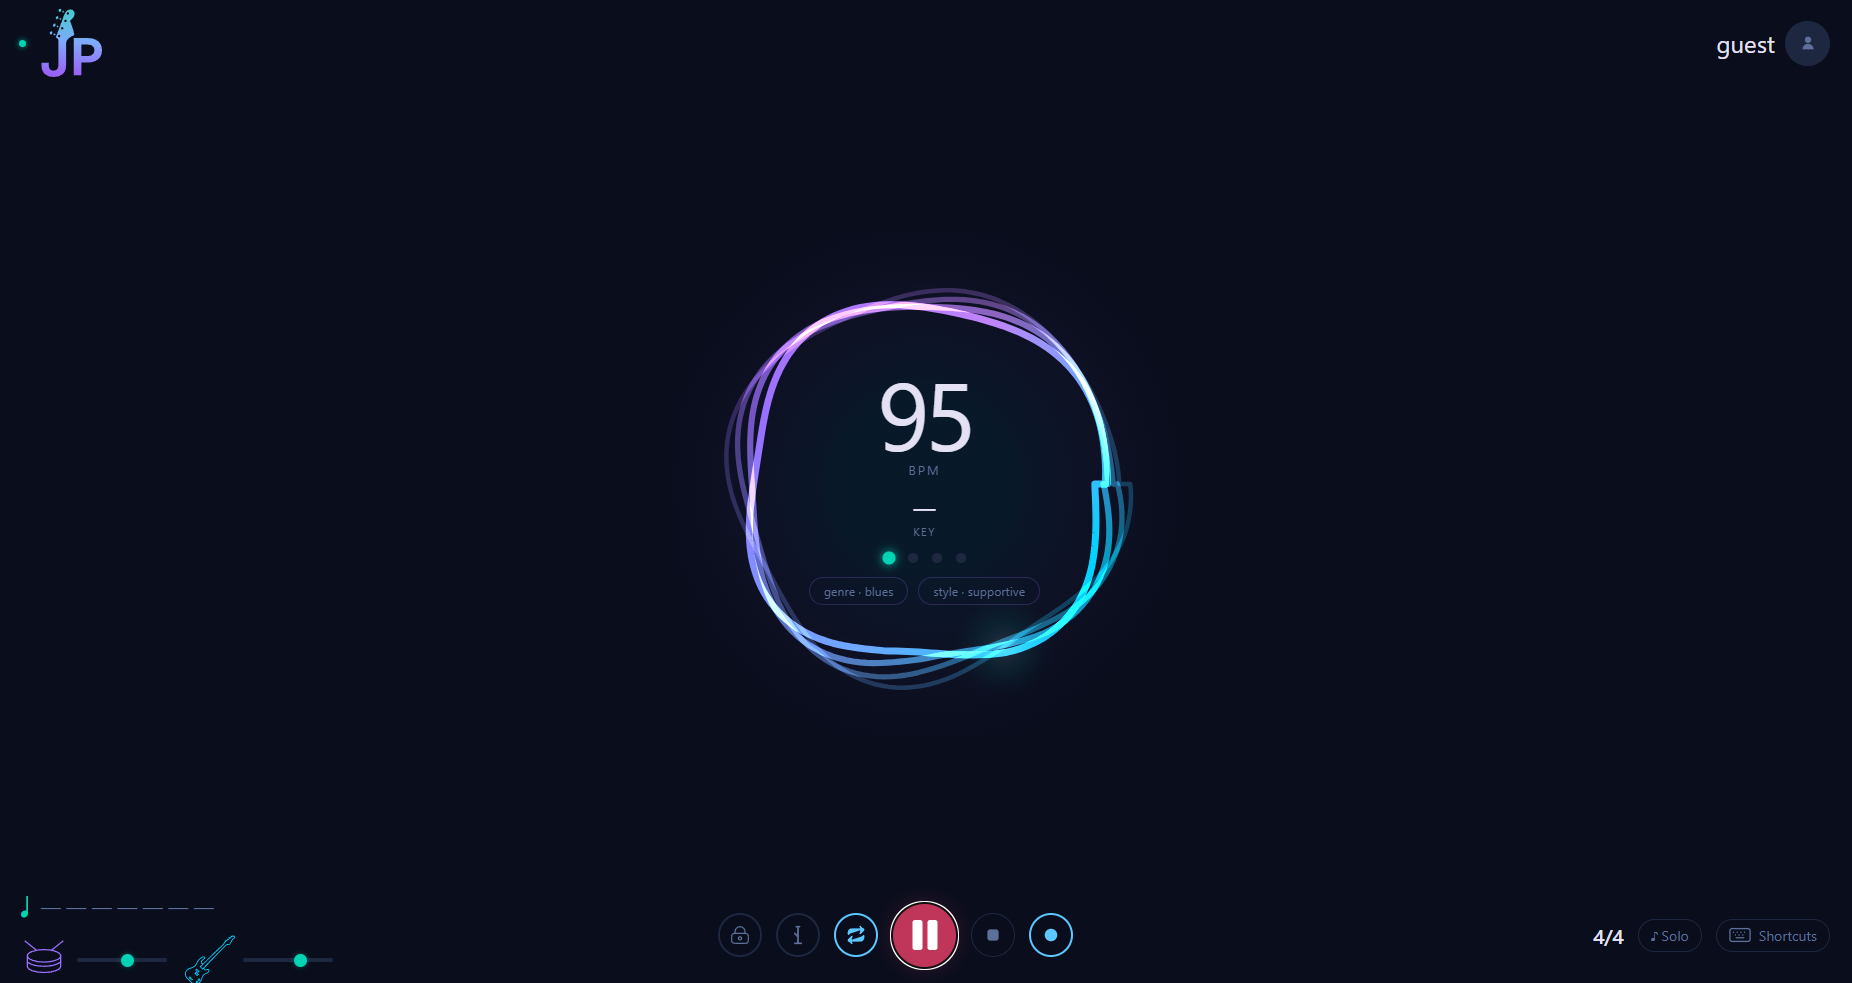
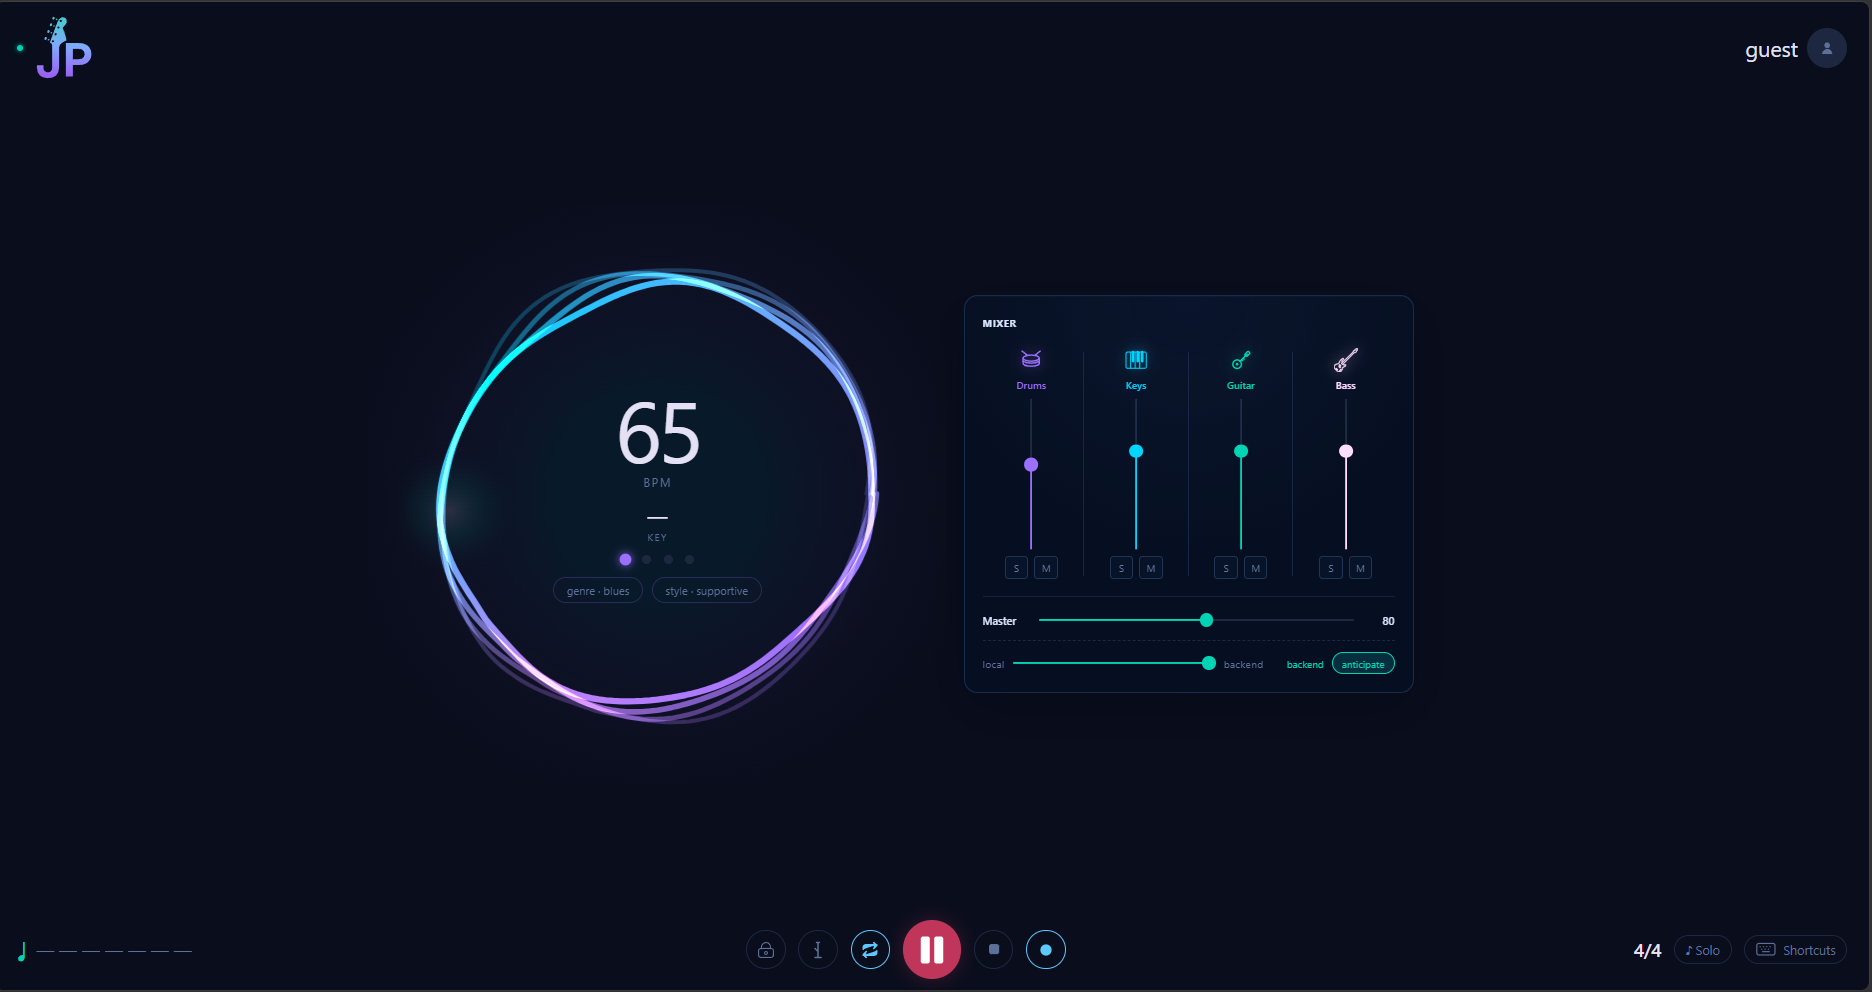
testing local vs backend

diff --git a/jam-pal-react/src/hooks/useJamEngine.js b/jam-pal-react/src/hooks/useJamEngine.js
@@ -3,6 +3,7 @@ import { createAudioEngine } from '../engine/audioEngine.js';
 import { createScheduler } from '../engine/scheduler.js';
 import { createBrain } from '../engine/bandBrain.js';
 import { createTransformerBrain } from '../engine/transformerBrain.js';
+import { createHybridBrain } from '../engine/hybridBrain.js';
 import { createJamDirector } from '../engine/jamDirector.js';
 import { createSessionStats } from '../engine/sessionStats.js';
 import { METERS } from '../engine/config.js';
@@ -44,6 +45,12 @@ export function useJamEngine({ style = 'supportive', genre = 'blues', timeSig = 
   const [isMetronomeOn, setIsMetronomeOn] = useState(false);
   // Lock
   const [isLockOn, setIsLockOn] = useState(false);
+  // Dev-only brain A/B: probability each bar comes from the backend brain
+  const [brainMix, setBrainMixState] = useState(1);
+  const [brainSource, setBrainSource] = useState(null);
+  // Anticipatory harmony: apply the transformer's predicted chord changes
+  // ahead of detection so the band shifts with the player, not after
+  const [anticipationOn, setAnticipationOn] = useState(true);
 
   const engineRef    = useRef(null);
   const schedulerRef = useRef(null);
@@ -70,6 +77,47 @@ export function useJamEngine({ style = 'supportive', genre = 'blues', timeSig = 
     masterVolRef.current = v;
     setMasterVolState(v);
     engineRef.current?.setMasterVolume(v);
+  }, []);
+
+  const brainMixRef = useRef(1);
+  const setBrainMix = useCallback((v) => {
+    brainMixRef.current = v;
+    setBrainMixState(v);
+    brainRef.current?.setMix?.(v);
+  }, []);
+
+  const anticipationRef  = useRef(true);
+  const loopModeRef      = useRef('off');
+  const chordTimeoutsRef = useRef([]);
+  const toggleAnticipation = useCallback(() => {
+    setAnticipationOn(prev => {
+      anticipationRef.current = !prev;
+      return !prev;
+    });
+  }, []);
+
+  const clearChordTimeouts = () => {
+    for (const id of chordTimeoutsRef.current) clearTimeout(id);
+    chordTimeoutsRef.current = [];
+  };
+
+  // Schedule the predicted bar of chord changes. Each entry lands via
+  // engine.setChord at its predicted arrival, so bass/keys/guitar voice the
+  // new chord as the player hits it instead of after detection confirms it.
+  // Detection keeps running and corrects any wrong guesses.
+  const onChordPrediction = useCallback((chords) => {
+    if (!anticipationRef.current) return;
+    if (loopModeRef.current === 'playing') return; // looper owns the chords
+    clearChordTimeouts();
+    for (const { rootPc, atMs } of chords) {
+      if (atMs > 4000) break; // don't act on predictions too far out
+      const id = setTimeout(() => {
+        const engine = engineRef.current;
+        if (!engine || !anticipationRef.current) return;
+        engine.setChord(rootPc, engine.getChordQuality?.() ?? 'maj');
+      }, atMs);
+      chordTimeoutsRef.current.push(id);
+    }
   }, []);
 
   const setSelectedOutputId = useCallback((id) => {
@@ -162,17 +210,23 @@ export function useJamEngine({ style = 'supportive', genre = 'blues', timeSig = 
     engine.setMasterVolume(masterVolRef.current);
     if (outputIdRef.current) engine.setOutputDevice(outputIdRef.current);
     if (!schedulerRef.current) {
-      const brain = import.meta.env.VITE_USE_TRANSFORMER === 'true'
-        ? createTransformerBrain({
-            genre,
-            timeSig: timeSigRef.current,
-            onPrediction: (pred) => {
-              if (pred?.estimated_bpm != null) {
-                engineRef.current?.nudgeBpm?.(pred.estimated_bpm);
-              }
-            },
+      const onPrediction = (pred) => {
+        if (pred?.estimated_bpm != null) {
+          engineRef.current?.nudgeBpm?.(pred.estimated_bpm);
+        }
+      };
+      const useTransformer = import.meta.env.VITE_USE_TRANSFORMER === 'true';
+      // dev builds get the A/B hybrid so the local and backend brains can be
+      // compared live with the brain-mix slider; prod picks one at build time
+      const brain = useTransformer && import.meta.env.DEV
+        ? createHybridBrain({
+            genre, timeSig: timeSigRef.current, onPrediction, onChordPrediction,
+            onBarSource: setBrainSource,
           })
-        : createBrain({ genre, timeSig: timeSigRef.current });
+        : useTransformer
+          ? createTransformerBrain({ genre, timeSig: timeSigRef.current, onPrediction, onChordPrediction })
+          : createBrain({ genre, timeSig: timeSigRef.current });
+      brain.setMix?.(brainMixRef.current);
       brainRef.current = brain;
       const sched = createScheduler(engine, brain, meter, { instrument: instrumentRef.current });
       schedulerRef.current = sched;
@@ -184,7 +238,10 @@ export function useJamEngine({ style = 'supportive', genre = 'blues', timeSig = 
       });
       directorRef.current = director;
       sched.setOnBar(director.onBar);
-      sched.setOnLoopStatus(setLoopStatus);
+      sched.setOnLoopStatus((s) => {
+        loopModeRef.current = s.mode;
+        setLoopStatus(s);
+      });
     }
     // count-in fires immediately so the user gets the pulse
     setCountIn(3);
@@ -192,6 +249,7 @@ export function useJamEngine({ style = 'supportive', genre = 'blues', timeSig = 
   }, [selectedDeviceId, genre]);
 
   const stopMic = useCallback(() => {
+    clearChordTimeouts();
     setIsCountingIn(false);
     setCountIn(null);
     setBandReady(false);
@@ -339,5 +397,7 @@ export function useJamEngine({ style = 'supportive', genre = 'blues', timeSig = 
     setDrumVolume, setBassVolume, setKeysVolume, setGuitarVolume, setMasterVolume,
     refreshDevices, getFrequencyData,
     toggleMic, toggleRecording, toggleLoop,
+    brainMix, setBrainMix, brainSource,
+    anticipationOn, toggleAnticipation,
   };
 }

diff --git a/jam-pal-react/src/components/SessionView.jsx b/jam-pal-react/src/components/SessionView.jsx
@@ -248,6 +248,8 @@ function SessionView({
   drumVolume = 0.85, bassVolume = 1.0, keysVolume = 1.0, guitarVolume = 1.0, masterVolume = 0.8,
   onDrumVolume, onBassVolume, onKeysVolume, onGuitarVolume, onMasterVolume,
   mutedChannels = new Set(), soloedChannels = new Set(), onToggleMute, onToggleSolo,
+  brainMix = 1, onBrainMix, brainSource = null,
+  anticipationOn = true, onToggleAnticipation,
 }) {
   const isActive = listening || bandPlaying;
   const ringRef = useRef(null);
@@ -497,6 +499,37 @@ function SessionView({
           />
           <span className={styles.masterValue}>{Math.round(masterVolume * 100)}</span>
         </div>
+
+        {onBrainMix && (
+          <div className={styles.brainRow}>
+            <span className={styles.brainEnd}>local</span>
+            <input
+              type="range"
+              min="0"
+              max="1"
+              step="0.05"
+              value={brainMix}
+              onChange={(e) => onBrainMix(Number(e.target.value))}
+              aria-label="Brain mix: local vs backend"
+              className={styles.horizontalSlider}
+              style={{ '--fill': `${brainMix * 100}%` }}
+            />
+            <span className={styles.brainEnd}>backend</span>
+            <span className={`${styles.brainSource} ${brainSource === 'backend' ? styles.brainSourceBackend : ''}`}>
+              {brainSource ?? '—'}
+            </span>
+            {onToggleAnticipation && (
+              <button
+                className={`${styles.anticipateBtn} ${anticipationOn ? styles.anticipateBtnOn : ''}`}
+                onClick={onToggleAnticipation}
+                aria-pressed={anticipationOn}
+                title="Anticipatory harmony: shift chords when the model predicts them, not after detection"
+              >
+                anticipate
+              </button>
+            )}
+          </div>
+        )}
         </div>
       </div>
 

diff --git a/jam-pal-react/src/engine/hybridBrain.js b/jam-pal-react/src/engine/hybridBrain.js
@@ -1,0 +1,40 @@
+import { createBrain } from './bandBrain.js';
+import { createTransformerBrain } from './transformerBrain.js';
+
+// Dev A/B brain: runs the local groove brain and the backend transformer brain
+// in lockstep, and picks which one drives the band per bar. `mix` is the
+// probability a bar comes from the backend — 0 = always local, 1 = always
+// backend, in between blends bar by bar so the two are audibly comparable
+// mid-session. Only wired up in dev builds (see useJamEngine.js).
+export function createHybridBrain({ genre, timeSig, onPrediction, onChordPrediction, onBarSource } = {}) {
+  const local  = createBrain({ genre, timeSig });
+  const remote = createTransformerBrain({ genre, timeSig, onPrediction, onChordPrediction });
+
+  let mix = 1;
+  let useRemote = true;
+
+  return {
+    setMix(v) { mix = Math.max(0, Math.min(1, v)); },
+    getMix: () => mix,
+
+    addEvent: (t, pitch) => remote.addEvent?.(t, pitch),
+
+    stepAdvance: (step) => (useRemote ? remote : local).stepAdvance(step),
+
+    reset() {
+      local.reset();
+      remote.reset();
+    },
+
+    step(ctx) {
+      if (ctx.step === 0) {
+        useRemote = Math.random() < mix;
+        onBarSource?.(useRemote ? 'backend' : 'local');
+      }
+      // step both every time so their internal per-bar state stays coherent
+      const localEvents  = local.step(ctx);
+      const remoteEvents = remote.step(ctx);
+      return useRemote ? remoteEvents : localEvents;
+    },
+  };
+}

diff --git a/jam-pal-react/src/engine/transformerBrain.js b/jam-pal-react/src/engine/transformerBrain.js
@@ -28,7 +28,7 @@ function toEngineEvents(rawEvents, ctx) {
 
 export function createTransformerBrain({
   genre = 'rock', timeSig = '4/4', endpoint = ENDPOINT, lookahead = 2, lowWater = 1,
-  onPrediction = null,
+  onPrediction = null, onChordPrediction = null,
 } = {}) {
   const fallback  = createBrain({ genre, timeSig });
   let buffer      = [];
@@ -94,6 +94,18 @@ export function createTransformerBrain({
         const data = await res.json();
         lastPrediction = data.predictions[0];
         onPrediction?.(lastPrediction)
+        // the full predicted bar as upcoming chord changes: pitch encodes
+        // chordRootPc + 48 (see addEvent); each step's time_offset_ms is
+        // relative to the previous note, so the cumulative sum gives each
+        // chord's arrival time from now
+        if (onChordPrediction && data.predictions?.length) {
+          let atMs = 0;
+          const chords = data.predictions.map((p) => {
+            atMs += Math.max(0, p.time_offset_ms ?? 0);
+            return { rootPc: ((p.pitch % 12) + 12) % 12, atMs };
+          });
+          onChordPrediction(chords);
+        }
         console.log('[transformer] anticipation →', lastPrediction);
       }
     } catch { /* offline */ }

diff --git a/jam-pal-react/src/components/SessionView.module.css b/jam-pal-react/src/components/SessionView.module.css
@@ -725,6 +725,52 @@
   background: var(--accent);
 }
 
+/* Dev-only brain A/B row (local vs backend, chosen per bar) */
+.brainRow {
+  display: grid;
+  grid-template-columns: auto minmax(0, 1fr) auto 58px auto;
+  align-items: center;
+  gap: 9px;
+  margin-top: 14px;
+  padding-top: 12px;
+  border-top: 1px dashed rgba(43, 65, 105, 0.5);
+}
+
+.anticipateBtn {
+  padding: 4px 10px;
+  border: 1px solid #233352;
+  border-radius: 999px;
+  background: rgba(7, 19, 43, 0.78);
+  color: #667a9c;
+  font: inherit;
+  font-size: 11px;
+  cursor: pointer;
+  transition: color 140ms, border-color 140ms, background 140ms;
+}
+
+.anticipateBtnOn {
+  border-color: var(--accent);
+  background: color-mix(in srgb, var(--accent) 14%, #07132b);
+  color: var(--accent);
+}
+
+.brainEnd {
+  font-size: 11px;
+  color: var(--muted);
+  letter-spacing: 0.04em;
+}
+
+.brainSource {
+  font-size: 11px;
+  text-align: right;
+  color: var(--muted);
+  font-variant-numeric: tabular-nums;
+}
+
+.brainSourceBackend {
+  color: var(--accent);
+}
+
 /* Compact faders in the transport bar */
 .mixer {
   display: flex;

diff --git a/jam-pal-react/src/App.jsx b/jam-pal-react/src/App.jsx
@@ -93,6 +93,11 @@ function App() {
       soloedChannels={engine.soloedChannels}
       onToggleMute={engine.toggleMute}
       onToggleSolo={engine.toggleSolo}
+      brainMix={engine.brainMix}
+      onBrainMix={import.meta.env.DEV ? engine.setBrainMix : undefined}
+      brainSource={engine.brainSource}
+      anticipationOn={engine.anticipationOn}
+      onToggleAnticipation={import.meta.env.DEV ? engine.toggleAnticipation : undefined}
     />
   );
 }
